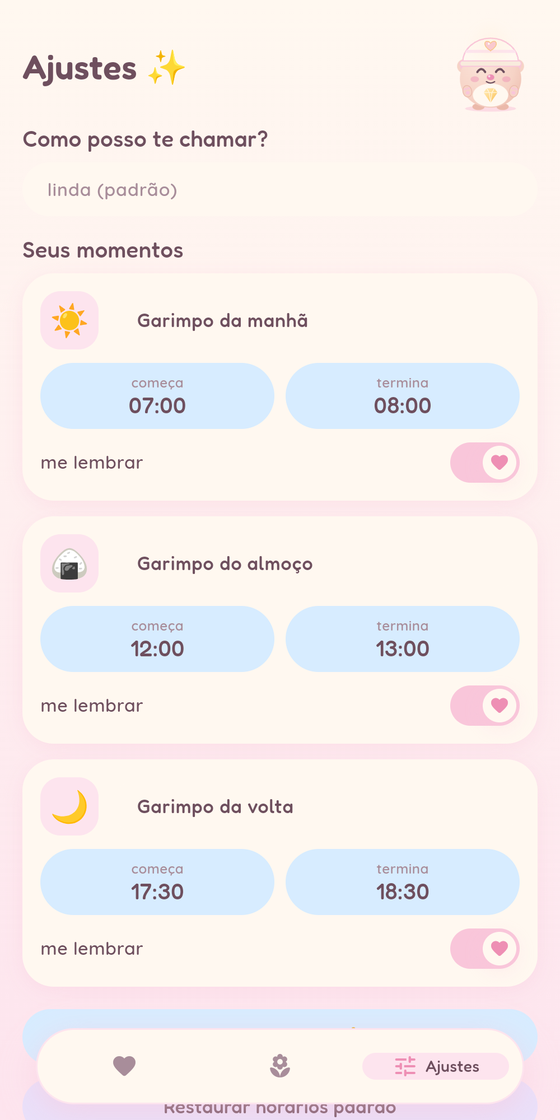
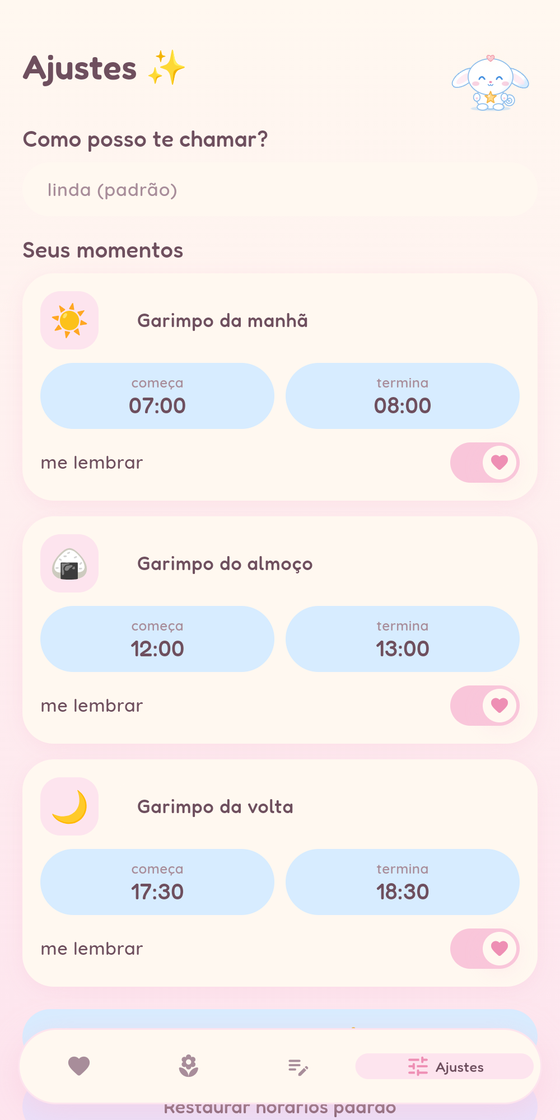
docs: atualiza SPEC, CLAUDE.md e README para o Chocolatinho, com prints novos
Claude-Session: https://claude.ai/code/session_0186AZGqfDZs3ub7w3GGxp1B

diff --git a/README.md b/README.md
@@ -1,6 +1,6 @@
 <div align="center">
 
-<img src="docs/img/capa.png" alt="Telas do app Pepita: boas-vindas, Hoje e Cantinho" width="100%">
+<img src="docs/img/capa.png" alt="Telas do app Pepita: boas-vindas, Hoje e Caderninho" width="100%">
 
 # 💎 Pepita
 
@@ -19,7 +19,7 @@
 
 Minha namorada tem um trabalho CLT e, como renda extra, mantém um grupo de ofertas (o **Garimpô**) no WhatsApp: ela procura promoções, troca pelo link de afiliado dela e posta no grupo, tudo manualmente.
 
-Eu fiz a **Pepita** — uma toupeirinha garimpeira — para ajudar com **uma coisa só**: lembrar, com carinho, dos **3 momentos do dia** em que ela pode postar, e deixar ela anotar (se quiser) o que fez.
+Eu fiz a **Pepita** — o app, cujo nome vem da pepita de ouro do garimpo — e a mascote é o **Chocolatinho**, um coelhinho de orelhas caídas criado por ela. Juntos eles ajudam com **uma coisa só**: lembrar, com carinho, dos **3 momentos do dia** em que ela pode postar, e deixar ela anotar (se quiser) o que fez.
 
 | Momento | Horário padrão |
 |---|---|
@@ -46,7 +46,7 @@ Isso não é só intenção: há [testes automáticos](test/linguagem_gentil_tes
 
 <table>
   <tr>
-    <td align="center" width="20%"><img src="docs/img/hoje.png" alt="Tela Hoje"><br><b>Hoje</b><br><sub>Saudação, a Pepita e os 3 momentos. O momento "agora" brilha suavemente.</sub></td>
+    <td align="center" width="20%"><img src="docs/img/hoje.png" alt="Tela Hoje"><br><b>Hoje</b><br><sub>Saudação, o Chocolatinho e os 3 momentos. O momento "agora" brilha suavemente.</sub></td>
     <td align="center" width="20%"><img src="docs/img/sheet.png" alt="Sheet de registro"><br><b>Registro</b><br><sub>Contador opcional (começa vazio!) e dois botões igualmente gentis.</sub></td>
     <td align="center" width="20%"><img src="docs/img/cantinho.png" alt="Tela Cantinho"><br><b>Cantinho</b><br><sub>A semana em florzinhas. Dia sem postagem = botão de flor descansando.</sub></td>
     <td align="center" width="20%"><img src="docs/img/caderninho.png" alt="Tela Caderninho"><br><b>Caderninho</b><br><sub>Notinhas numa folha de caderno, com fontes fofinhas e papéis coloridos.</sub></td>
@@ -56,17 +56,17 @@ Isso não é só intenção: há [testes automáticos](test/linguagem_gentil_tes
 
 <sub>Os prints são do app rodando com dados de exemplo.</sub>
 
-### 🐹 A Pepita
+### 🐰 O Chocolatinho
 
-Uma mascote **original**, desenhada inteira em `CustomPainter` (sem imagens), com cinco estados que se misturam sem cortes secos:
+A mascote é **autoral** (criação dela), redesenhada inteira em `CustomPainter` (vetorial, sem imagens), com orelhas caídas que balançam, rabinho enrolado e uma estrelinha dourada. Tem cinco estados que se misturam sem cortes secos:
 
 | Estado | Quando | O que faz |
 |---|---|---|
-| `tranquila` | padrão | respira, pisca a cada 3–6 s, a joia cintila |
-| `animada` | algum momento está rolando | balança de lado a lado, lanterna pulsando |
-| `comemorando` | depois de "Postei!" | squash & stretch, partículas, lanterna acesa, número "voando" até o rodapé |
-| `aconchegada` | descansou / noite | olhinhos fechados, abraça a joia, "zzz" |
-| `curiosa` | toque longo / ajuste a corrigir | inclina a cabeça, "?" |
+| `tranquila` | padrão | respira, pisca a cada 3–6 s, a estrelinha cintila |
+| `animada` | algum momento está rolando | balança de lado a lado, orelhinhas levantam, coração brilha |
+| `comemorando` | depois de "Postei!" | pulinho com orelhas ao vento, partículas, coração aceso, número "voando" até o rodapé |
+| `aconchegada` | descansou / noite | olhinhos fechados, orelhas caídas, abraça a estrelinha, "zzz" |
+| `curiosa` | toque longo / ajuste a corrigir | uma orelha em pé, "?" |
 
 O desenho é separado do comportamento (`PosePepita` → `PepitaPainter`), então dá para trocar por uma arte feita à mão sem mexer no resto do app.
 
@@ -77,7 +77,7 @@ O desenho é separado do comportamento (`PosePepita` → `PepitaPainter`), entã
 - Respeita "reduzir animações" do sistema (movimento forte vira fade simples).
 - **Caderninho:** aba de anotações livres numa folha de caderno fofinha, com 4 fontes de letrinha e 6 papéis. A "bolinha de feitinho" é opcional e não conta nada.
 - Fontes **Fredoka** e **Quicksand** (mais as letrinhas do Caderninho) empacotadas — funciona 100% offline.
-- Ícone do app, imagem grande da notificação e silhueta da notificação gerados a partir do próprio desenho da Pepita ([`tool/gerar_arte_test.dart`](tool/gerar_arte_test.dart)).
+- Ícone do app, imagem grande da notificação e silhueta da notificação gerados a partir do próprio desenho do Chocolatinho ([`tool/gerar_arte_test.dart`](tool/gerar_arte_test.dart)).
 
 ## 🔔 Notificações
 
@@ -124,7 +124,7 @@ flutter run                       # num celular/emulador Android
 flutter build apk --release       # gera build/app/outputs/flutter-apk/app-release.apk
 ```
 
-Para regenerar o ícone e as imagens da notificação depois de mexer no desenho da Pepita:
+Para regenerar o ícone e as imagens da notificação depois de mexer no desenho do Chocolatinho:
 
 ```bash
 flutter test tool/gerar_arte_test.dart

diff --git a/docs/SPEC.md b/docs/SPEC.md
@@ -50,7 +50,7 @@ De cima para baixo:
 4. **Rodapé do dia**, só se tiver pelo menos 1 registro `postei` com quantidade: "Hoje você garimpou **12** achados 💗" com pequenas joias animadas. Sem registro → frase do banco `semPressao`. Nunca mostrar "0".
 
 ### 3.2 Sheet de registro (bottom sheet)
-Abre com animação de mola (spring) de baixo para cima; a Pepita aparece pequenininha "espiando" na borda superior da sheet.
+Abre com animação de mola (spring) de baixo para cima; o Chocolatinho aparece pequenininho "espiando" na borda superior da sheet.
 - Título: "{emoji} {nome do momento}"
 - Pergunta suave: "Como foi esse garimpo?"
 - **Contador opcional**: botões grandes redondos `−` e `+` (rosa e azul bebê) com o número no meio em fonte grande. Começa em vazio ("—"), não em 0. Cada toque: número troca com animação de rolagem para cima/baixo + haptic leve. Pressionar e segurar o `+` acelera.
@@ -129,13 +129,14 @@ Paginação com bolinhas que viram coraçõezinhos; transições com parallax le
 - Fontes: **Fredoka** (títulos, números grandes) e **Quicksand** semibold (texto).
 - Fundo da tela Hoje: degradê vertical bem sutil creme → rosa-bebê, com 5–8 elementos flutuando devagar em parallax (nuvenzinhas, corações e estrelinhas em opacidade baixa, movimento senoidal lento). O céu muda de leve conforme o momento do dia (manhã mais azulzinho, almoço creme, volta pôr-do-sol rosado/lavanda).
 
-### 5.2 A mascote Pepita (`widgets/pepita.dart`)
-Personagem **original**: uma toupeirinha garimpeira. Desenhada em `CustomPainter`, tudo em formas arredondadas.
-- Corpo: gota/bolinha gordinha cor pêssego-rosado claro (`#F6D3C6`), barriguinha creme.
-- Olhos: arquinhos fechados felizes (estado padrão) ou pontinhos brilhantes (surpresa/alegria). Bochechas rosadas.
-- Focinho: bolinha rosa pequena; patinhas curtinhas com almofadinhas rosa.
-- Capacete de garimpeira creme com uma **lanterna em forma de coração** que acende (glow dourado) nas comemorações.
-- Segura (ou tem ao lado) uma **pepita/joia dourada** facetada que brilha de tempos em tempos.
+### 5.2 A mascote Chocolatinho (`widgets/pepita.dart`)
+Personagem **autoral**, criada pela namorada do Lucas (o app se chama Pepita; a mascote é o Chocolatinho). Desenhada em `CustomPainter`, tudo em formas arredondadas.
+- Corpo branco e fofinho com contorno azul-bebê fininho e sombreado suave; cabeça larga e redondinha.
+- **Orelhas longas e caídas** que balançam de leve (levantam na comemoração, caem no sono).
+- Olhos: arquinhos felizes (estado padrão) ou pontinhos azuis brilhantes. Bochechas rosadas, narizinho rosa, boquinha em "ω".
+- **Rabinho enrolado** em espiral que balança.
+- Segura uma **estrelinha dourada** facetada que cintila de tempos em tempos.
+- Um **coraçãozinho-lanterna** sobre a cabeça que acende (glow dourado) nas comemorações.
 
 Estados (troca com `AnimatedSwitcher`/interpolação, nunca corte seco):
 | Estado | Quando | Animação |
@@ -167,7 +168,7 @@ Sequência (~1,6s, interrompível):
 - Respeitar `MediaQuery.disableAnimations`: trocar movimentos por fades simples.
 
 ### 5.5 Ícone do app
-Rosto da Pepita com o capacete de coração sobre fundo rosa-bebê, em ícone adaptativo (foreground + background). Nome no launcher: **Pepita**.
+Rosto do Chocolatinho com o coraçãozinho sobre fundo azul-bebê, em ícone adaptativo (foreground + background). Nome no launcher: **Pepita**.
 
 ## 6. Bancos de frases (`frases.dart`)
 Sorteio aleatório, sem repetir a última usada. `{nome}` = nome configurado; `{momento}` = nome do momento.

diff --git a/CLAUDE.md b/CLAUDE.md
@@ -6,7 +6,7 @@ App Android (Flutter) pessoal, feito só para a minha namorada. Lembra, com cari
 Este app **não cobra**. É renda extra e o lazer dela vem primeiro.
 - Nada de streak, sequência, meta, porcentagem de "cumprimento", contador regressivo ou ranking.
 - Nunca usar vermelho, "atrasado", "pendente", "você esqueceu", "não fez" ou qualquer texto de culpa.
-- Dia sem registro = "dia de descanso", sempre mostrado de forma positiva (Pepita dormindo feliz).
+- Dia sem registro = "dia de descanso", sempre mostrado de forma positiva (o Chocolatinho dormindo feliz).
 - Registrar é sempre opcional; quantidade é sempre opcional.
 - No máximo 1 notificação por momento. Nada de lembrete de "você ainda não postou".
 - Em caso de dúvida entre funcionalidade e fofura: a fofura ganha. O esforço deste projeto vai para visual e animação, não para complexidade.
@@ -17,7 +17,7 @@ Este app **não cobra**. É renda extra e o lazer dela vem primeiro.
 - `shared_preferences` para persistência (dados pequenos, tudo local, sem backend, sem login)
 - `google_fonts` (Fredoka para títulos, Quicksand para texto) — ou fontes empacotadas em `assets/fonts` para funcionar offline
 - Animações: preferir o que vem no Flutter (`AnimationController`, `AnimatedSwitcher`, `TweenAnimationBuilder`, `CustomPainter`). Pacote extra só se trouxer ganho claro (ex.: `flutter_animate`), e avisar antes.
-- Mascote Pepita desenhada em `CustomPainter` (vetorial, animável). Sem imagens de personagens de terceiros.
+- Mascote **Chocolatinho** (criação autoral, coelhinho de orelhas caídas) desenhada em `CustomPainter` (vetorial, animável). O widget segue chamado `Pepita` (nome do app). Sem imagens/desenhos de personagens de terceiros.
 
 ## Estrutura
 ```
